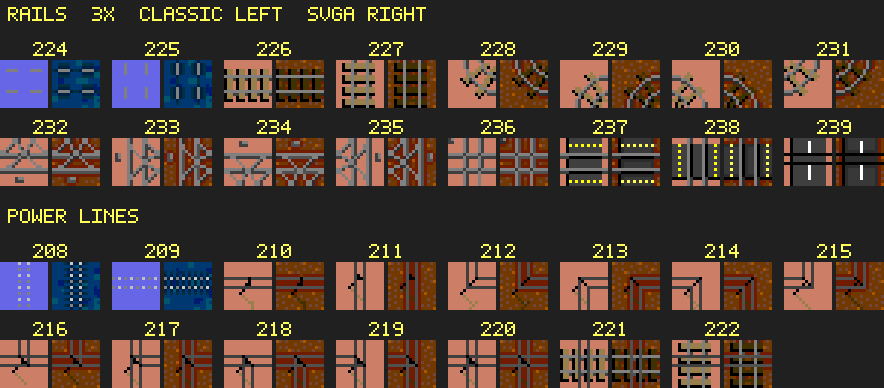
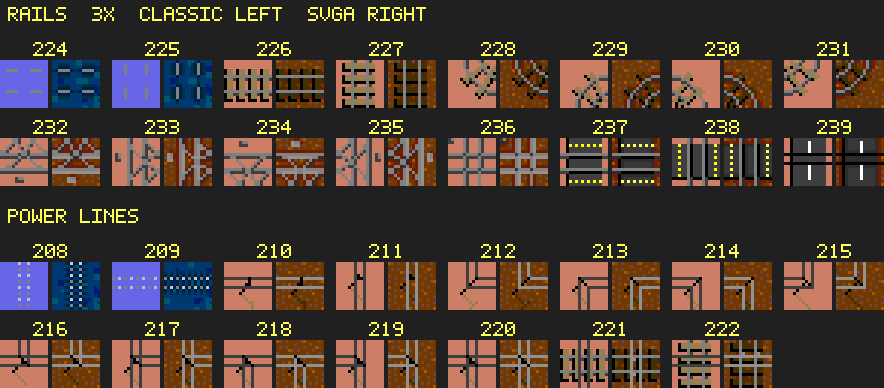
Keep the dirt rim off power wires and draw each wire as one grey line.
Wire and pole pixels no longer pull the reddish shoulder colour out of the field, so the ground beside a line stays plain dirt B. The wire is (146, 146, 146), clear of the rail ties.

diff --git a/art/svga/make_atlas.py b/art/svga/make_atlas.py
@@ -267,9 +267,11 @@ ASPHALT_EDGE = (44, 44, 44)
 # Ties, wires, and car bodies. Flat, so a traffic frame cannot flicker.
 TIE = (130, 130, 130)
 WIRE = (203, 203, 203)
-# A power line is a thin dark-grey stroke. The asphalt fill uses the same
-# classic grey, so the stroke is lifted to (81, 81, 81) to read on dirt B.
-CABLE = (81, 81, 81)
+# A power line is a thin dark-grey stroke, the same classic grey as asphalt.
+# (146, 146, 146) is light enough to read on dirt B and is not the tie grey,
+# so a wire can cross a rail without the two colours collapsing.
+CABLE = (146, 146, 146)
+_CABLE_BEFORE = (81, 81, 81)
 DASH = (255, 255, 255)
 RAIL_MARK = (255, 255, 85)
 LEAF = (162, 162, 162)
@@ -1067,6 +1069,23 @@ def _dither_recolour(src, w: int, h: int) -> dict[tuple[int, int], tuple[int, in
     return out
 
 
+def _road_shoulder(src, x: int, y: int, w: int, h: int, cables: set[tuple[int, int]]) -> bool:
+    """Dirt rim against asphalt and ties. A wire or its pole does not count."""
+    for dx, dy in _ORTHO:
+        nx, ny = x + dx, y + dy
+        if not _in(nx, ny, w, h) or (nx, ny) in cables:
+            continue
+        neighbour = src[nx, ny]
+        if neighbour in (SRC_DGREY, SRC_GREY):
+            return True
+        if neighbour != BLACK:
+            continue
+        fx, fy = nx + dx, ny + dy
+        if _in(fx, fy, w, h) and (fx, fy) not in cables and src[fx, fy] in (SRC_DGREY, SRC_GREY):
+            return True
+    return False
+
+
 def _cables(src, w: int, h: int) -> set[tuple[int, int]]:
     """Thin dark-grey strokes are wires. A road fill is not."""
     wires: set[tuple[int, int]] = set()
@@ -1085,6 +1104,7 @@ def paint(
     kinds: list[list[str]],
     scheme: DirtScheme = SCHEME_B,
     bright_zones: bool = True,
+    plain_wires: bool = True,
 ) -> Image.Image:
     """Recolour `original`. `kinds` is one label per 16px cell, row-major."""
     w, h = original.size
@@ -1153,10 +1173,11 @@ def paint(
                 continue
             if mat.role == "dirt":
                 edge = _touches_water(src, x, y, w, h) or _dirt_edge(src, x, y, w, h)
-                if kind_row[x // TILE] == "road" and _touches_ground(
-                    src, x, y, w, h, frozenset({SRC_DGREY, SRC_GREY})
-                ):
-                    edge = True
+                if kind_row[x // TILE] == "road":
+                    if plain_wires:
+                        edge = edge or _road_shoulder(src, x, y, w, h, cables)
+                    elif _touches_ground(src, x, y, w, h, frozenset({SRC_DGREY, SRC_GREY})):
+                        edge = True
                 chosen = _dirt_colour(x, y, edge, scheme)
                 if shadowed is not None:
                     chosen = shadowed
@@ -1174,7 +1195,7 @@ def paint(
                 continue
             if mat.role == "asphalt":
                 if (x, y) in cables:
-                    dst[x, y] = CABLE
+                    dst[x, y] = CABLE if plain_wires else _CABLE_BEFORE
                     continue
                 # The curb is the outer edge only. A dash or a car is inside
                 # the roadway, so it does not pull the centre line off centre.
@@ -1235,7 +1256,10 @@ def kinds_for(indexes: list[list[int]]) -> list[list[str]]:
 
 
 def paint_grid(
-    atlas: Image.Image, grid: list[list[int]], scheme: DirtScheme = SCHEME_B
+    atlas: Image.Image,
+    grid: list[list[int]],
+    scheme: DirtScheme = SCHEME_B,
+    plain_wires: bool = True,
 ) -> tuple[Image.Image, Image.Image]:
     height = len(grid)
     width = len(grid[0])
@@ -1243,7 +1267,7 @@ def paint_grid(
     for y, row in enumerate(grid):
         for x, index in enumerate(row):
             classic.paste(crop_tile(atlas, index), (x * TILE, y * TILE))
-    return classic, paint(classic, kinds_for(grid), scheme)
+    return classic, paint(classic, kinds_for(grid), scheme, plain_wires=plain_wires)
 
 
 def luma(rgb: tuple[int, int, int]) -> float:
@@ -1699,6 +1723,24 @@ def main() -> int:
     road_src = painted_road[66][0].load()
     if any(cable.getpixel((x, y)) != CABLE for y in range(16) for x in range(16) if cable_src[x, y] == SRC_DGREY):
         lines.append("FAIL power wires on 210 are not the lighter cable grey")
+        failed = True
+    wire_rim = 0
+    for y in range(16):
+        for x in range(16):
+            if cable_src[x, y] != SRC_TAN:
+                continue
+            if not any(
+                _in(x + dx, y + dy, 16, 16) and (x + dx, y + dy) in _cables(cable_src, 16, 16)
+                for dx, dy in _ORTHO
+            ):
+                continue
+            if cable.getpixel((x, y)) in (DIRT_RIM, DIRT_CONTACT):
+                wire_rim += 1
+    if wire_rim:
+        lines.append(f"FAIL dirt beside the wires on 210 is still a rim ({wire_rim})")
+        failed = True
+    if DIRT_RIM not in set(_histogram(road)):
+        lines.append("FAIL the road shoulder on 66 lost its dirt rim")
         failed = True
     if any(road.getpixel((x, y)) == CABLE for y in range(16) for x in range(16) if road_src[x, y] == SRC_DGREY):
         lines.append("FAIL the roadway on 66 was painted as a cable")
@@ -2182,6 +2224,35 @@ def main() -> int:
     _save(rails_power, PREVIEW_DIR / "rails-power-3x.png")
     _save(bridges, PREVIEW_DIR / "bridges-3x.png")
     _save(transport_sheet, PREVIEW_DIR / "transport-32.png")
+    _, svga_trip_before = paint_grid(atlas, trip, plain_wires=False)
+    power_rows = []
+    for index in (210, 211, 220, 77, 221, 208):
+        classic, after = painted_road[index]
+        before = paint(classic, [["road"]], plain_wires=False)
+        power_rows.append(
+            _hstack(
+                [
+                    _captioned(classic, f"{index} CLASSIC", 4),
+                    _captioned(before, "BEFORE", 4),
+                    _captioned(after, "AFTER", 4),
+                ],
+                16,
+            )
+        )
+    power_rows.append(
+        _hstack(
+            [
+                _captioned(svga_trip_before, "SCENE BEFORE", 2),
+                _captioned(svga_trip, "SCENE AFTER", 2),
+            ],
+            18,
+        )
+    )
+    power_sample = _vstack(
+        [_banner("POWER LINES  CLASSIC  BEFORE  AFTER", power_rows[0].width), *power_rows],
+        12,
+    )
+    _save(power_sample, PREVIEW_DIR / "power-sample.png")
 
     lines.append("")
     lines.append(
@@ -2208,6 +2279,7 @@ def main() -> int:
         "rails-power-3x.png",
         "bridges-3x.png",
         "transport-32.png",
+        "power-sample.png",
     ):
         lines.append(f"  previews/{name}")
     result = "PASS" if not failed else "FAIL"
